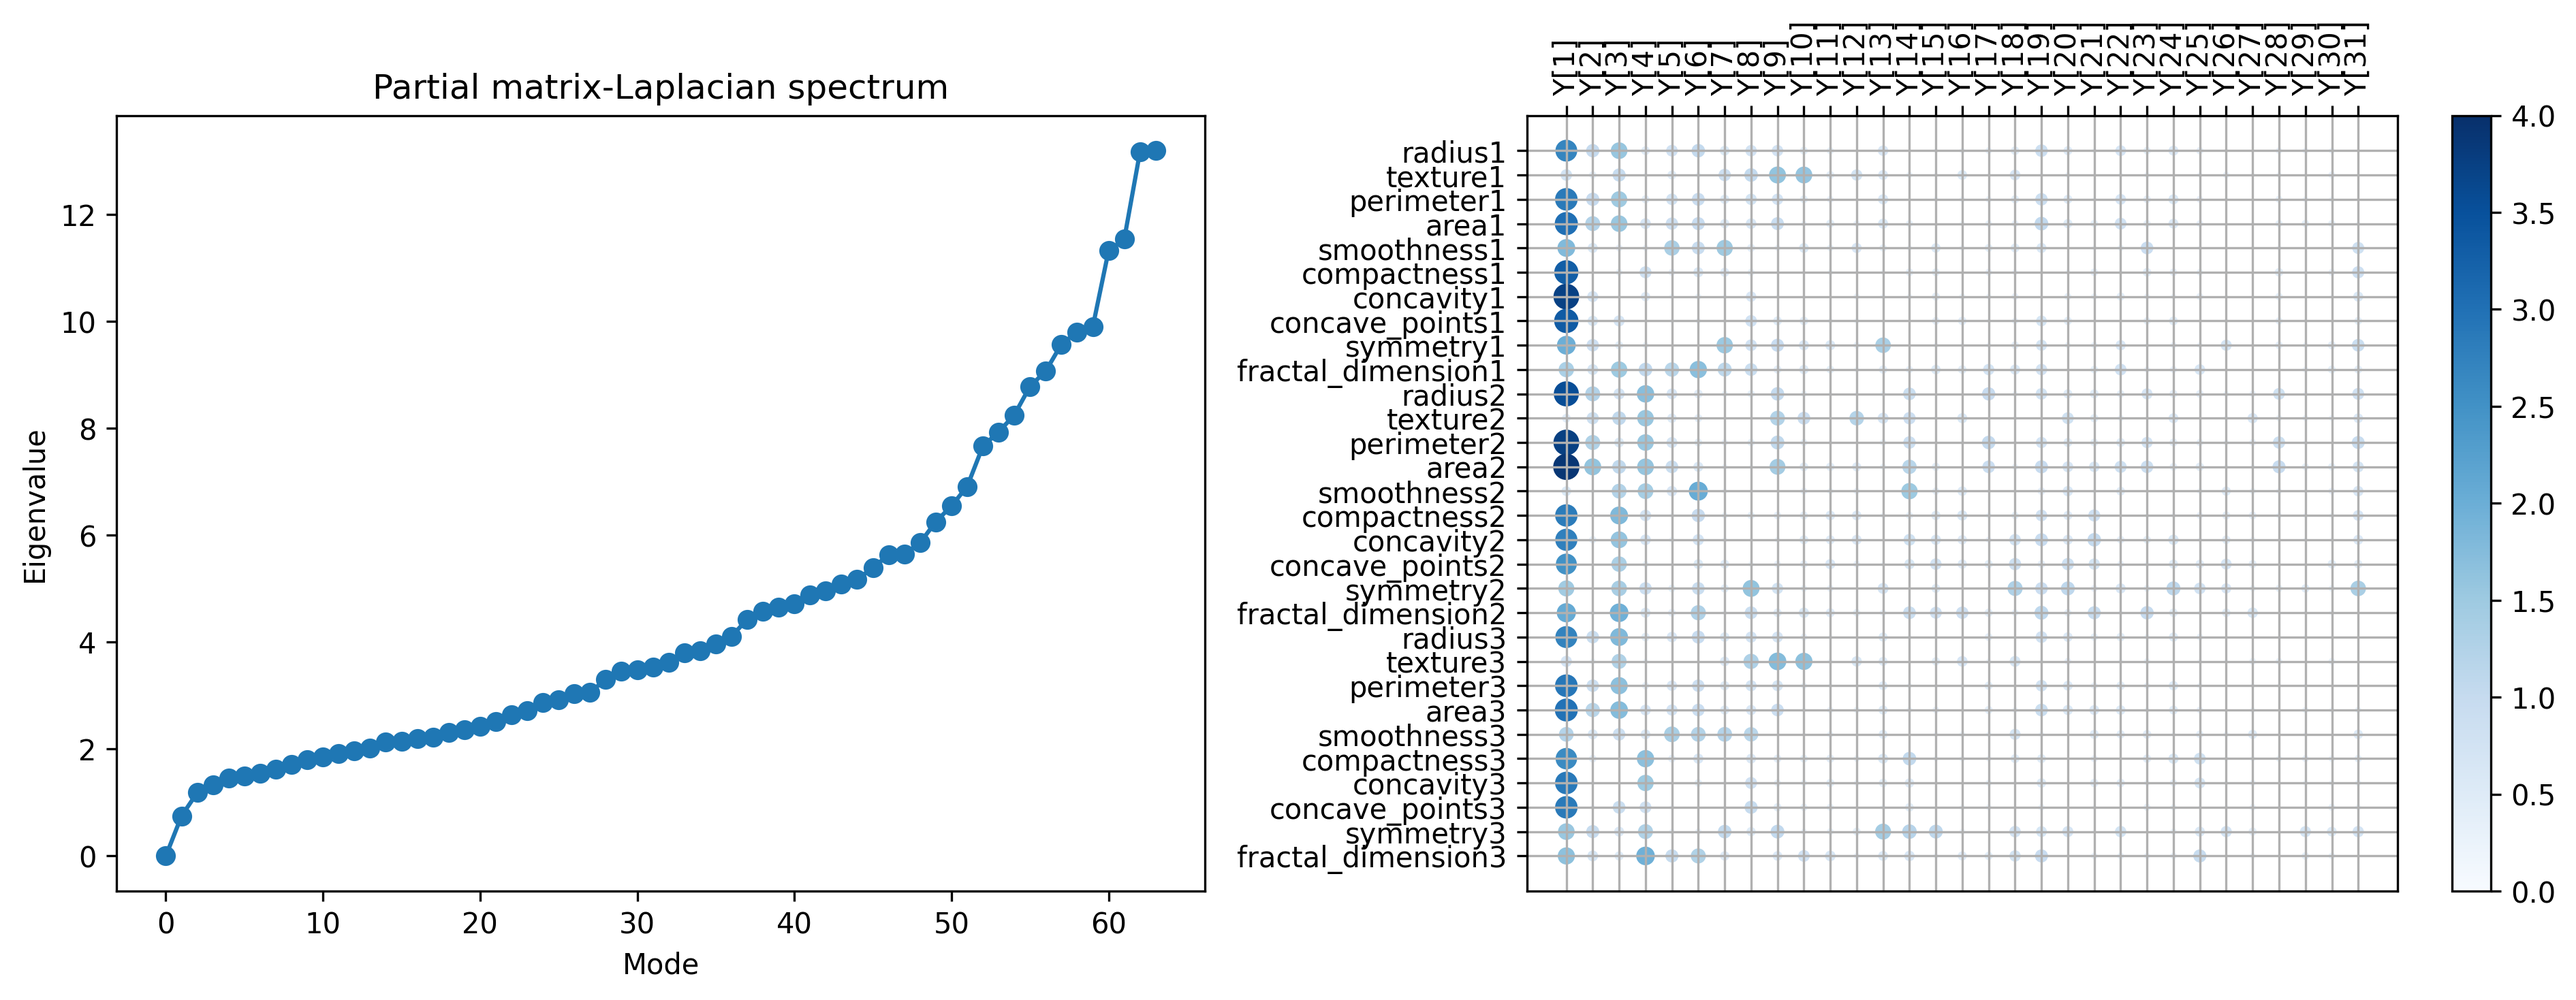
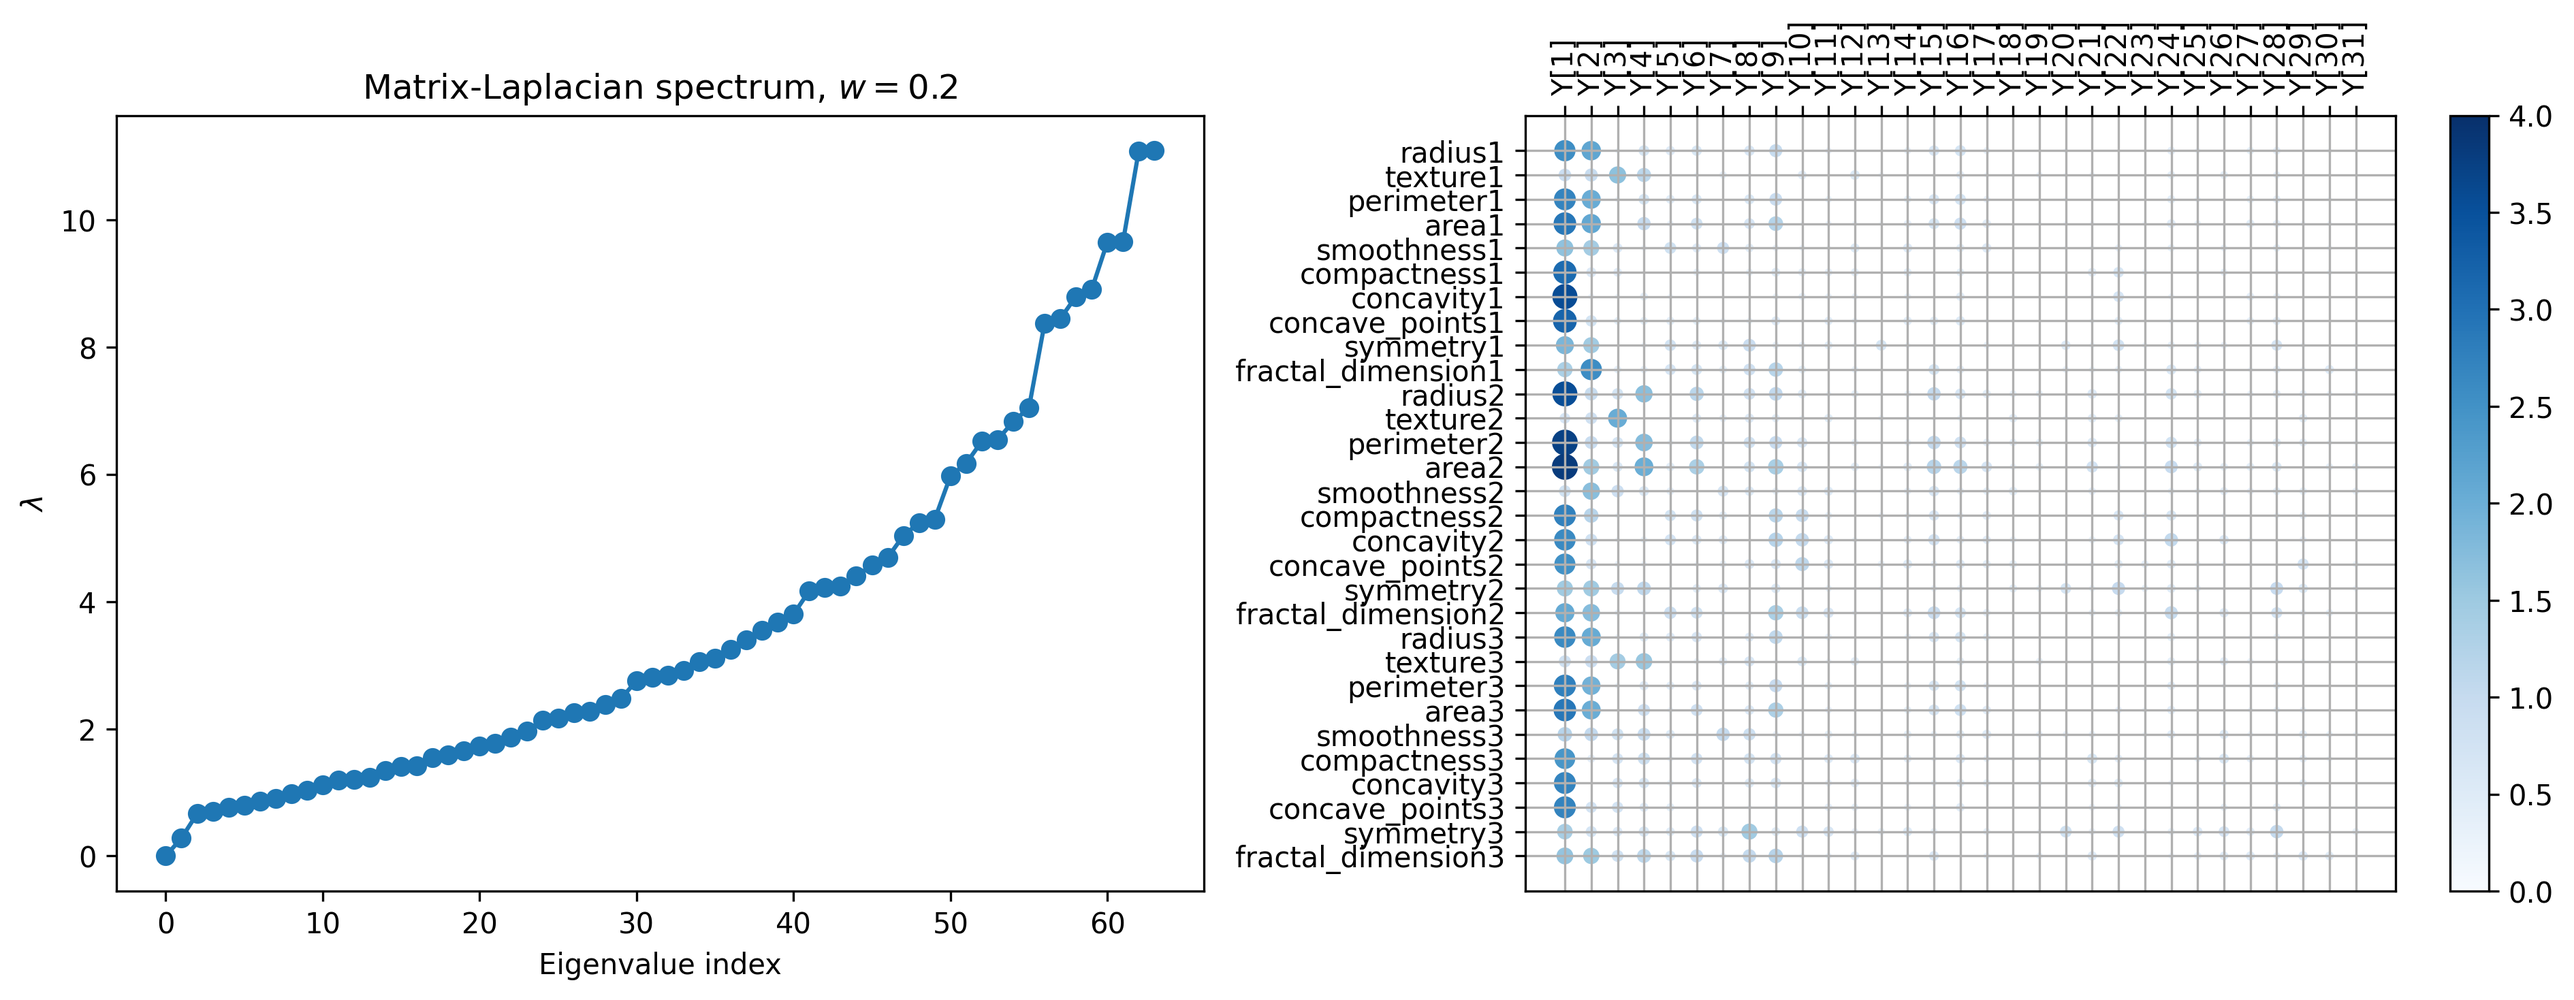
updated to include w=.2, .5 for reviewers

diff --git a/scripts/make_figures/breast_cancer.py b/scripts/make_figures/breast_cancer.py
@@ -1,47 +1,168 @@
 #!/usr/bin/env python3
-"""Reproduce the matrix-Laplacian analyses for the WBC example (Figure 14)."""
+"""Reproduce the WBC matrix-Laplacian analyses in Figures 14--16."""
+
+from __future__ import annotations
 
 from pathlib import Path
 import sys
+
 import matplotlib.pyplot as plt
 import numpy as np
 
 ROOT = Path(__file__).resolve().parents[2]
 sys.path.insert(0, str(Path(__file__).resolve().parent))
-from quantum_geometry import matrix_laplacian  # noqa: E402
+from quantum_geometry import (  # noqa: E402
+    coherent_states,
+    expectation_values,
+    matrix_laplacian,
+)
+
+
+def load_wbc():
+    raw = np.genfromtxt(
+        ROOT / "data/input/breast_cancer/wdbc.data", delimiter=",", dtype=str
+    )
+    labels = raw[:, 1]
+    data = raw[:, 2:].astype(float)
+    data = (data - data.mean(axis=0)) / data.std(axis=0, ddof=0)
+    return data, labels
+
+
+def load_operators(weight: str):
+    path = ROOT / f"results/trained_operators/wbc_N8_w{weight}.npz"
+    with np.load(path, allow_pickle=False) as archive:
+        return archive["operators"]
+
+
+def laplacian_modes(operators, count=31):
+    laplacian = matrix_laplacian(operators) / operators.shape[0]
+    values, vectors = np.linalg.eigh(laplacian)
+    n = operators.shape[1]
+    modes = vectors[:, 1 : count + 1].T.reshape(count, n, n)
+    modes = 0.5 * (modes + modes.conj().transpose(0, 2, 1))
+    return values.real, modes
+
+
+def eigenmap_coordinates(data, operators, modes):
+    _, states = coherent_states(data, operators)
+    return expectation_values(states, modes)
+
+
+def plot_figure_14(output, operators):
+    values, modes = laplacian_modes(operators)
+    overlaps = np.abs(np.einsum("mij,aji->am", modes, operators))
+
+    fig, axes = plt.subplots(1, 2, figsize=(13, 5))
+    axes[0].plot(np.arange(len(values)), values, "o-")
+    axes[0].set(
+        xlabel="Eigenvalue index",
+        ylabel=r"$\lambda$",
+        title=r"Matrix-Laplacian spectrum, $w=0.2$",
+    )
+
+    yy, xx = np.indices(overlaps.shape)
+    scatter = axes[1].scatter(
+        xx.ravel() + 1,
+        yy.ravel(),
+        s=22.0 * overlaps.ravel(),
+        c=overlaps.ravel(),
+        cmap="Blues",
+        vmin=0.0,
+        vmax=4.0,
+        edgecolors="none",
+    )
+    base = [
+        "radius",
+        "texture",
+        "perimeter",
+        "area",
+        "smoothness",
+        "compactness",
+        "concavity",
+        "concave_points",
+        "symmetry",
+        "fractal_dimension",
+    ]
+    names = [f"{name}{group}" for group in (1, 2, 3) for name in base]
+    axes[1].set(
+        xlabel="",
+        ylabel="",
+        xticks=np.arange(31) + 1,
+        xticklabels=[f"Y[{i}]" for i in range(1, 32)],
+        yticks=np.arange(30),
+        yticklabels=names,
+    )
+    axes[1].invert_yaxis()
+    axes[1].xaxis.tick_top()
+    axes[1].tick_params(axis="x", rotation=90)
+    axes[1].grid(True)
+    fig.colorbar(scatter, ax=axes[1])
+    fig.tight_layout()
+    fig.savefig(output / "figure_14_wbc.png", dpi=300, bbox_inches="tight")
+    plt.close(fig)
+
+
+def diagnosis_scatter(ax, coordinates, labels, dimensions=3):
+    colors = np.where(labels == "M", "red", "green")
+    if dimensions == 3:
+        ax.scatter(*coordinates[:, :3].T, c=colors, s=8, marker=".")
+        ax.set(xlabel="Y1", ylabel="Y2", zlabel="Y3")
+    else:
+        ax.scatter(*coordinates[:, :2].T, c=colors, s=8, marker=".")
+        ax.set(xlabel="Y1", ylabel="Y2")
+    for diagnosis, color in (("M", "red"), ("B", "green")):
+        ax.scatter([], [], c=color, s=12, label=diagnosis)
+    ax.legend()
+
+
+def plot_figure_15(output, data, labels, operators):
+    _, modes = laplacian_modes(operators, count=3)
+    coordinates = eigenmap_coordinates(data, operators, modes)
+
+    fig = plt.figure(figsize=(13, 5))
+    ax3d = fig.add_subplot(1, 2, 1, projection="3d")
+    ax2d = fig.add_subplot(1, 2, 2)
+    diagnosis_scatter(ax3d, coordinates, labels, dimensions=3)
+    diagnosis_scatter(ax2d, coordinates, labels, dimensions=2)
+    ax3d.set_title(r"WBC Laplacian eigenmaps, $w=0.2$")
+    ax2d.set_title("Projection onto the two leading eigenmaps")
+    fig.tight_layout()
+    fig.savefig(output / "figure_15_wbc.png", dpi=300, bbox_inches="tight")
+    plt.close(fig)
+
+
+def plot_figure_16(output, data, labels, operators):
+    values, modes = laplacian_modes(operators, count=3)
+    coordinates = eigenmap_coordinates(data, operators, modes)
+
+    fig = plt.figure(figsize=(13, 5))
+    ax3d = fig.add_subplot(1, 2, 1, projection="3d")
+    ax_spectrum = fig.add_subplot(1, 2, 2)
+    diagnosis_scatter(ax3d, coordinates, labels, dimensions=3)
+    ax3d.set_title(r"WBC Laplacian eigenmaps, $w=0.5$")
+    ax_spectrum.plot(np.arange(len(values)), values, "o-")
+    ax_spectrum.set(
+        xlabel="Eigenvalue index",
+        ylabel=r"$\lambda$",
+        title=r"Matrix-Laplacian spectrum, $w=0.5$",
+    )
+    fig.tight_layout()
+    fig.savefig(output / "figure_16_wbc.png", dpi=300, bbox_inches="tight")
+    plt.close(fig)
 
 
 def main():
-    operators = np.load(ROOT/"results/trained_operators/wbc_N8.npz")["operators"]
-    laplacian = matrix_laplacian(operators)/operators.shape[0]
-    values, vectors = np.linalg.eigh(laplacian)
-    modes = vectors[:, 1:32].T.reshape(31, 8, 8)
-    modes = .5*(modes+modes.conj().transpose(0,2,1))
-    # Match the author's notebook definition: |Tr(Y_i X_j)|.
-    overlaps = np.abs(np.einsum("mij,aji->am", modes, operators))
-    output = ROOT/"figures/generated/figure_14_breast_cancer"; output.mkdir(parents=True, exist_ok=True)
+    output = ROOT / "figures/generated/figure_14_breast_cancer"
+    output.mkdir(parents=True, exist_ok=True)
+    data, labels = load_wbc()
+    operators_02 = load_operators("0p2")
+    operators_05 = load_operators("0p5")
 
-    fig, axes = plt.subplots(1, 2, figsize=(13, 5))
-    count = len(values); axes[0].plot(np.arange(count), values[:count], "o-")
-    axes[0].set(xlabel="Mode", ylabel="Eigenvalue", title="Partial matrix-Laplacian spectrum")
-    yy, xx = np.indices(overlaps.shape)
-    # Use overlap-proportional marker area, as in the paper.  Keeping the
-    # absolute scale (instead of normalizing every plot to one giant bubble)
-    # makes weak overlaps disappear quickly and leaves the grid legible.
-    marker_areas = 22.0 * overlaps.ravel()
-    scatter=axes[1].scatter(
-        xx.ravel()+1, yy.ravel(), s=marker_areas, c=overlaps.ravel(),
-        cmap="Blues", vmin=0.0, vmax=4.0, edgecolors="none"
-    )
-    base=["radius","texture","perimeter","area","smoothness","compactness","concavity","concave_points","symmetry","fractal_dimension"]
-    names=[f"{name}{group}" for group in (1,2,3) for name in base]
-    axes[1].set(xlabel="",ylabel="",xticks=np.arange(31)+1,xticklabels=[f"Y[{i}]" for i in range(1,32)],
-                yticks=np.arange(30),yticklabels=names)
-    axes[1].invert_yaxis()
-    axes[1].xaxis.tick_top(); axes[1].tick_params(axis="x",rotation=90); axes[1].grid(True)
-    fig.colorbar(scatter, ax=axes[1]); fig.tight_layout()
-    fig.savefig(output/"figure_14_wbc.png", dpi=300, bbox_inches="tight"); plt.close(fig)
-    print(f"Wrote WBC plots to {output}")
+    plot_figure_14(output, operators_02)
+    plot_figure_15(output, data, labels, operators_02)
+    plot_figure_16(output, data, labels, operators_05)
+    print(f"Wrote WBC Figures 14--16 to {output}")
 
 
-if __name__ == "__main__": main()
+if __name__ == "__main__":
+    main()

diff --git a/README.md b/README.md
@@ -9,7 +9,7 @@ four examples in Section 5:
 2. Two disconnected spheres with noise (Figures 5--6).
 3. A sphere with a non-uniform distribution of points (Figures 7--8).
 4. A dataset of conformal maps (Figures 9--13).
-5. Wisconsin Breast Cancer data (Figure 14).
+5. Wisconsin Breast Cancer data (Figures 14--16).
 
 The HSM implementation and operator-training pipeline are not part of this
 release. For access to these materials, please contact Alexander G. Abanov
@@ -70,7 +70,7 @@ sources of randomness.
 | Two spheres | 42 | 42 | 2,000 | 3 | 0.1 | 8 | 0.1 |
 | Non-uniform sphere | 42 | 42 | 2,000 | 3 | 0.1 | 8 | 0.1 |
 | Conformal maps | 42 | 42 | 2,000 | 200 | 0 | 8 | 0.1 |
-| Wisconsin Breast Cancer | not applicable | 42 | 569 | 30 | 0 | 8 | 0.1 |
+| Wisconsin Breast Cancer | not applicable | 42 | 569 | 30 | 0 | 8 | 0.2, 0.5 |
 
 `N` denotes Hilbert-space dimension. The synthetic sphere noise is isotropic
 Gaussian standard deviation. 
@@ -86,6 +86,9 @@ Gaussian standard deviation.
 The workflow uses Adam with `betas=(0.99, 0.99)`, zero weight
 decay, and AMSGrad. Figures in this repository are reproducible from the
 supplied frozen operators.
+
+The WBC operators used by Figures 14--15 (`w=0.2`) and Figure 16 (`w=0.5`)
+are provided as `wbc_N8_w0p2.npz` and `wbc_N8_w0p5.npz`.
 
 Conformal-map training times and hardware specifications are [available here](results/benchmarks/Conformal_Map_Training_Time_Benchmark.pdf).
 

diff --git a/scripts/make_figures/README.md b/scripts/make_figures/README.md
@@ -5,7 +5,7 @@
 - `two_spheres_stability.py`: two-sphere seed and `w` robustness study.
 - `nonuniform_sphere.py`: analyses underlying Figures 7 and 8.
 - `conformal_maps.py`: analyses underlying Figures 9 through 13.
-- `breast_cancer.py`: analyses underlying Figure 14.
+- `breast_cancer.py`: analyses underlying Figures 14 through 16.
 - `quantum_geometry.py`: shared NumPy post-training calculations.
 
 These scripts load frozen Hermitian matrices from `results/trained_operators/`.
